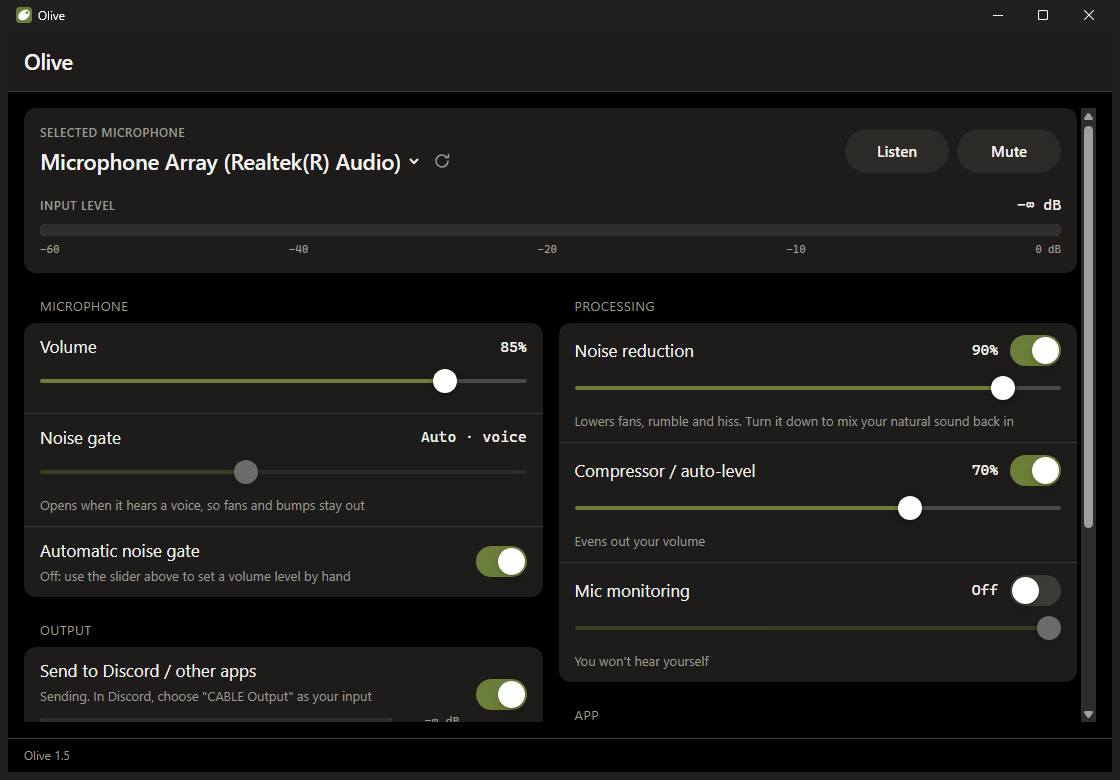
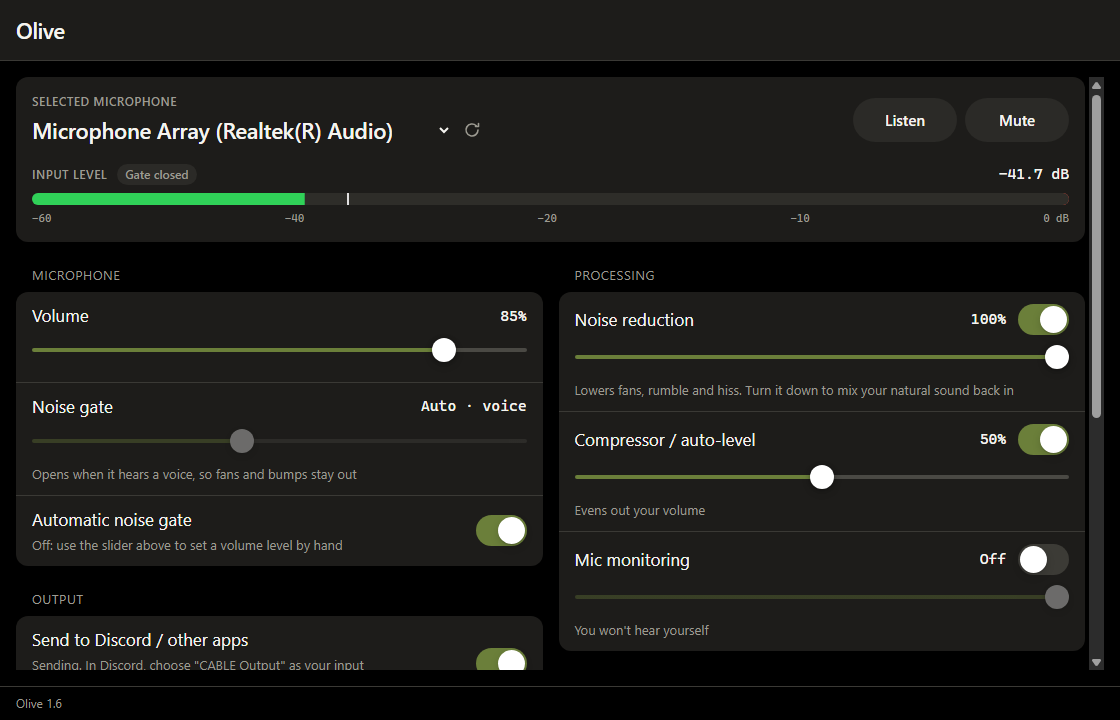
Add a download link and a current screenshot to the README

Changed region(s): [[0.0, 0.0, 1.0, 1.0], [0.375, 0.55, 0.4688, 0.5806], [0.375, 0.4583, 0.4062, 0.4889]]

diff --git a/README.md b/README.md
@@ -1,6 +1,7 @@
 <p align="center"><img src="assets/olive-icon-1024.png" width="96" alt="Olive icon"></p>
 <h1 align="center">Olive</h1>
 <p align="center">A microphone manager for Windows, inspired by SteelSeries Sonar's mic tab.</p>
+<p align="center"><a href="https://github.com/Zaytoonic/Olive/releases/latest"><strong>Download the latest version</strong></a></p>
 
 ![The Olive window](docs/screenshot.png)
 
@@ -15,7 +16,7 @@
 - **Runs in the tray**, and can start with Windows.
 
 ## Installing
-Run `Olive-Setup-<version>.exe`. It installs for your Windows account, with no admin rights needed, and adds a Start menu shortcut and an uninstaller. The app is not code-signed yet, so Windows may say "Windows protected your PC": click **More info**, then **Run anyway**.
+Download `Olive-Setup-<version>.exe` from [Releases](https://github.com/Zaytoonic/Olive/releases/latest) and run it. It installs for your Windows account, with no admin rights needed, and adds a Start menu shortcut and an uninstaller. The app is not code-signed yet, so Windows may say "Windows protected your PC": click **More info**, then **Run anyway**.
 
 Olive checks GitHub once a day for a new version and tells you if there is one. It never downloads or installs anything by itself, and you can turn the check off.
 
